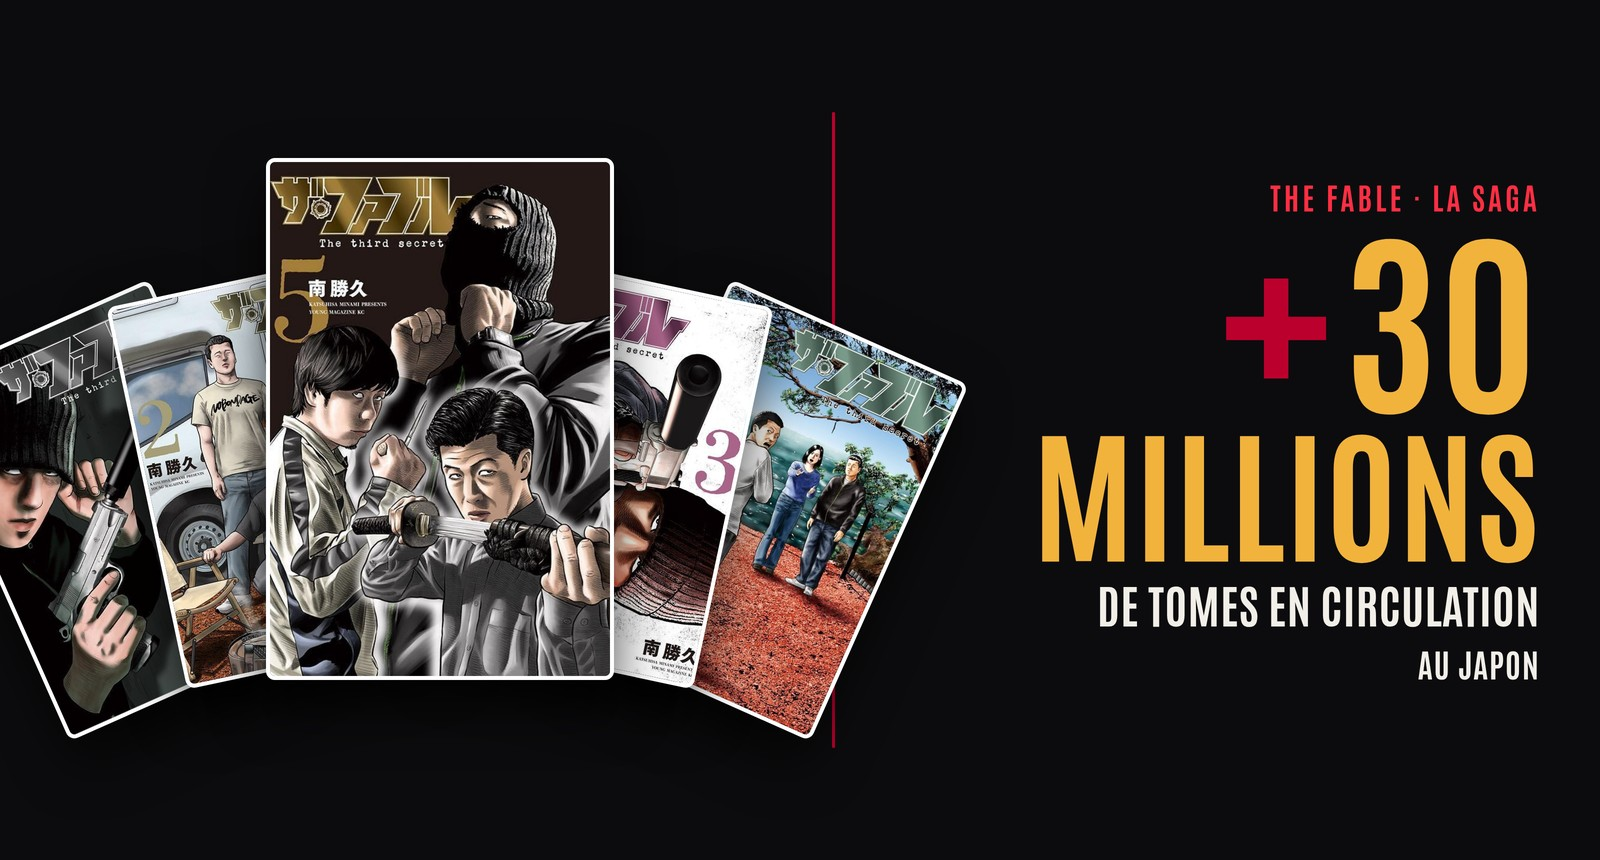
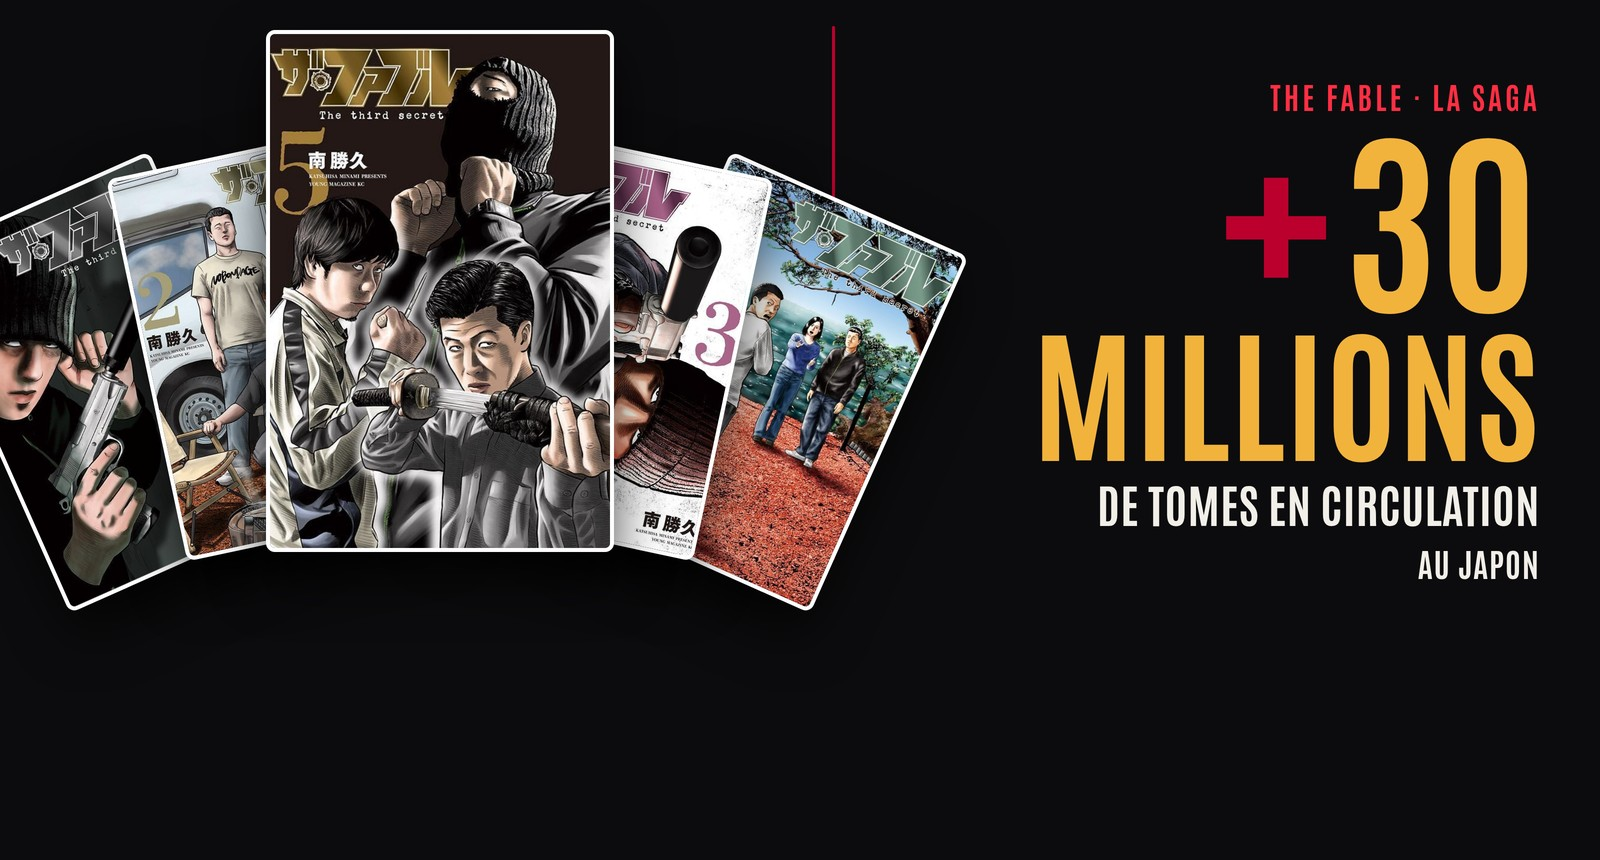
Bannière tomes en circulation : contenu remonté en haut (validé « max », Will)
Le bandeau du site recadre le haut ; on remonte tout le bloc (filet rouge quasi
en haut, éventail et chiffre montés) pour que « +30 MILLIONS / DE TOMES EN
CIRCULATION / AU JAPON » se lise tout de suite. Standard par défaut. Bannière
fixe The Fable régénérée.

Claude-Session: https://claude.ai/code/session_01ShgbxL6GpEPzbudUpDfTjj

diff --git a/site/circ-banner.js b/site/circ-banner.js
@@ -10,8 +10,8 @@
     '.fgb{width:1600px;height:860px;position:relative;overflow:hidden;background:#0c0c0e;color:#F2EFE9;font-family:"FGInter",sans-serif;line-height:normal;letter-spacing:normal;text-align:left}',
     '.fgb .fan{position:absolute;left:0;top:0;width:100%;height:100%}',
     '.fgb .fan img{position:absolute;border:4px solid #fff;border-radius:9px;object-fit:cover;box-shadow:0 26px 54px rgba(0,0,0,.72);background:#222;transform-origin:50% 92%}',
-    '.fgb .div{position:absolute;left:52%;top:112px;bottom:112px;width:3px;background:#BC002D;z-index:2;border-radius:2px}',
-    '.fgb .block{position:absolute;right:60px;top:50%;transform:translateY(-50%);z-index:3;text-align:right}',
+    '.fgb .div{position:absolute;left:52%;top:26px;bottom:300px;width:3px;background:#BC002D;z-index:2;border-radius:2px}',
+    '.fgb .block{position:absolute;right:60px;top:76px;z-index:3;text-align:right}',
     '.fgb .eyebrow{font:800 30px "FGAntonio",sans-serif;letter-spacing:.11em;text-transform:uppercase;color:#FF2E43}',
     '.fgb .big{font-family:"FGAntonio",sans-serif;font-weight:700;letter-spacing:.01em;color:#F2B33D;line-height:.82;white-space:nowrap}',
     '.fgb .big .u{color:#BC002D;vertical-align:top}',
@@ -42,7 +42,7 @@
   // Éventail à gauche : le hero au centre (devant, plus grand), les autres tomes répartis symétriquement
   // autour (slots entiers ±1, ±2… jamais 0, pour qu'aucun ne soit caché), puis remis dans l'ordre des tomes.
   function fanHTML(imgs, heroIdx) {
-    var cx = 440, cy = 440, heroW = 348, otherW = 260, HH = Math.round(heroW * 1.5), OH = Math.round(otherW * 1.5), step = 132;
+    var cx = 440, cy = 312, heroW = 348, otherW = 260, HH = Math.round(heroW * 1.5), OH = Math.round(otherW * 1.5), step = 132;
     var others = [], hero = null;
     imgs.forEach(function (src, i) { if (i === heroIdx) hero = src; else others.push(src); });
     var slots = []; for (var i = 1; slots.length < others.length; i++) { slots.push(-i); if (slots.length < others.length) slots.push(i); }
